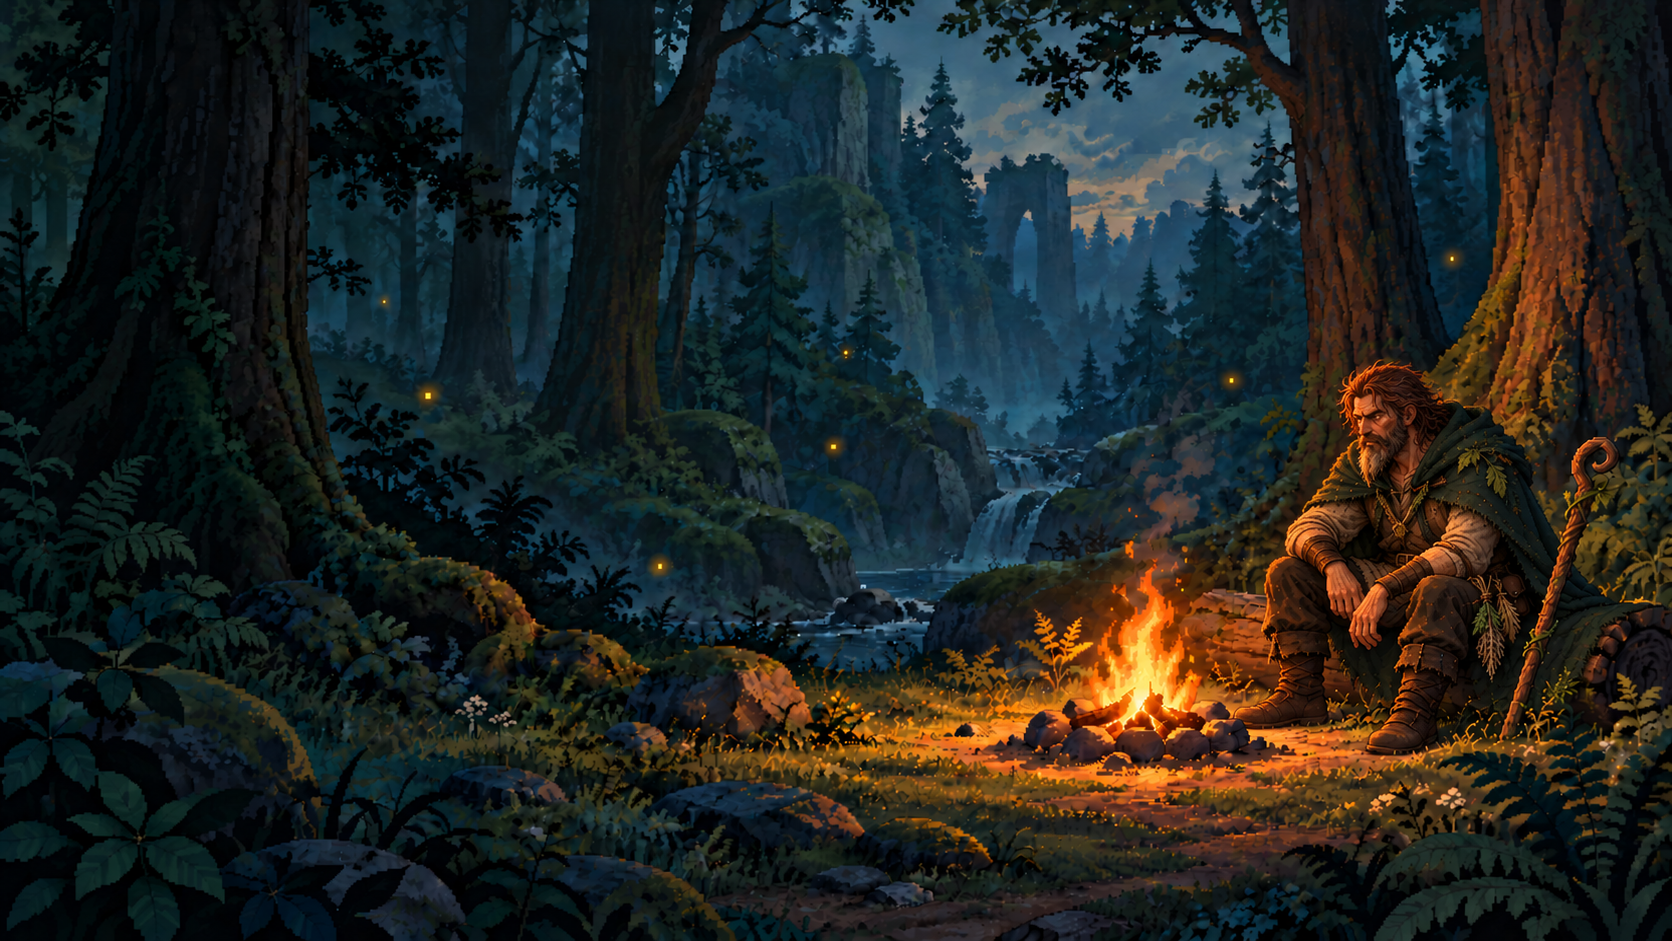
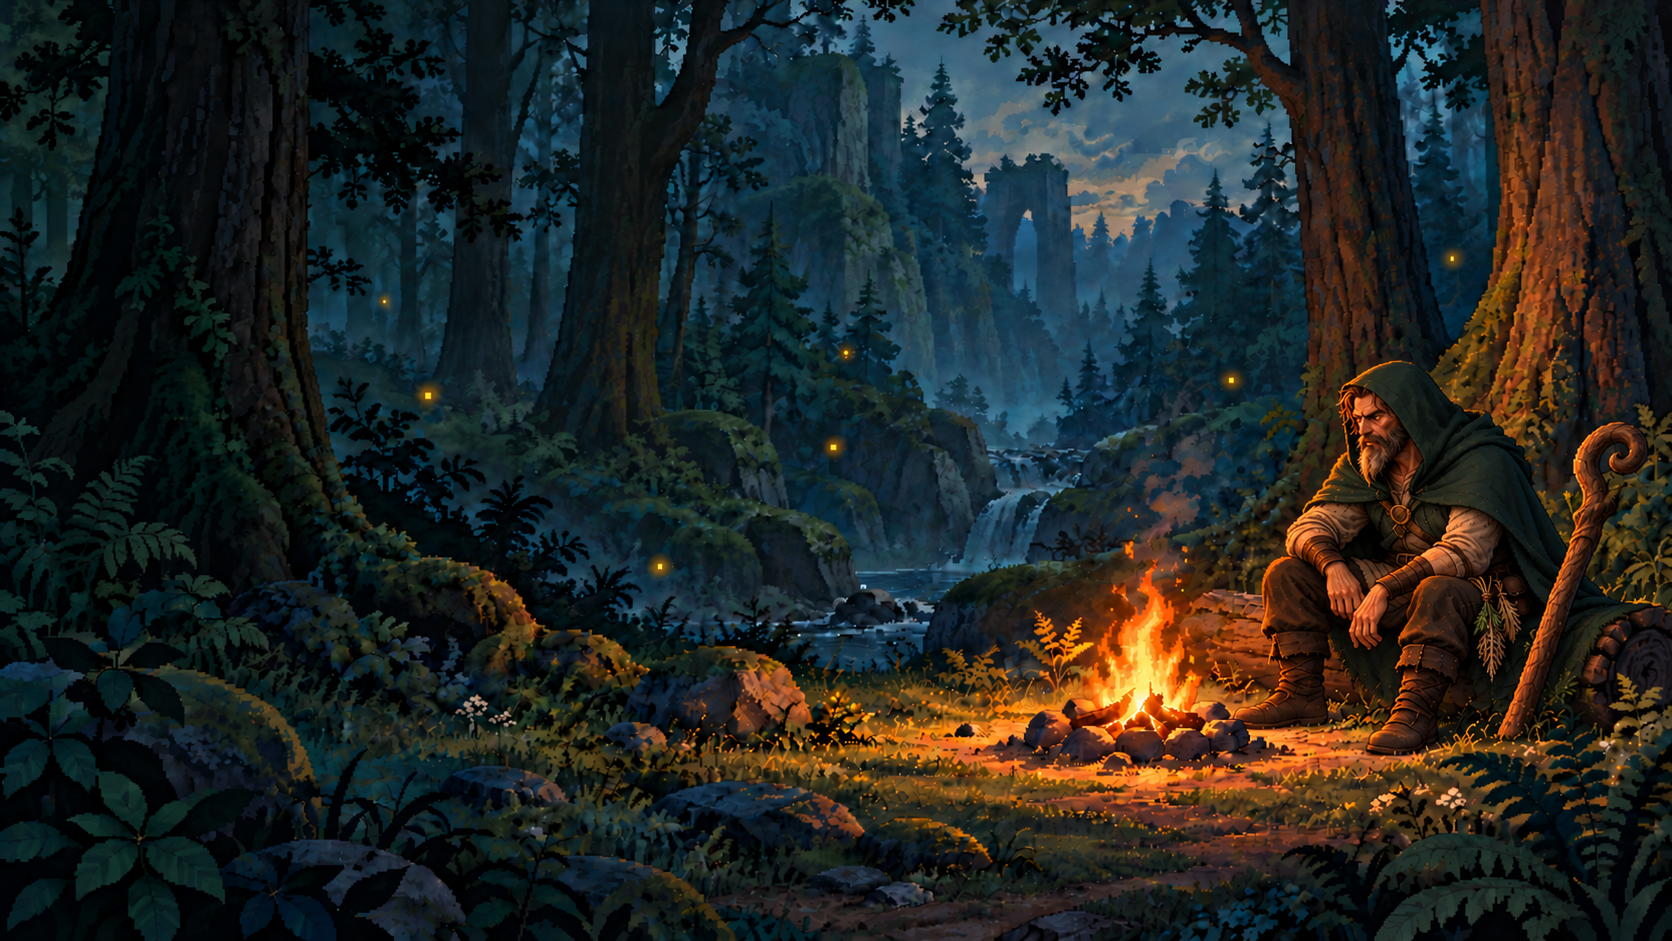
Restore druid hood, clean fabric and strengthen staff

diff --git a/docs/concepts/README.md b/docs/concepts/README.md
@@ -6,7 +6,7 @@
 
 ![Крепкий друид-мужчина 45+ в походной экипировке у костра](menu-forest-v2.png)
 
-Пользователю понравились общая композиция и визуальное направление первого изображения. Последний ориентир для героя — друид из Diablo II: суровые зрелые черты лица, жилистая мужская фигура и рыжеватые растрёпанные волосы. Борода неухоженная, но с более острой клиновидной формой. Сохранены тканевая туника, зелёный плащ, штаны, тяжёлые сапоги и связки трав на поясе. Наплечник в виде лапы исключён. Лес, костёр и место для меню сохранены как основа композиции.
+Пользователю понравились общая композиция и визуальное направление первого изображения. Последний ориентир для героя — друид из Diablo II: суровые зрелые черты лица, жилистая мужская фигура и рыжеватые волосы. Борода неухоженная, с одобренной острой клиновидной формой. Зелёный капюшон снова надет на голову. Плащ и штаны имеют более ровную ткань со складками, без точек, колючек и растительного покрытия. Деревянный посох сделан толще и массивнее. Сохранены тканевая туника, тяжёлые сапоги и связки трав на поясе. Наплечник в виде лапы исключён. Лес, костёр и место для меню сохранены как основа композиции.
 
 Показ генерации в чате у пользователя оказался недоступен. По его просьбе использовать другой способ передачи актуальное изображение сохранено здесь. Для следующих правок обновляем этот же файл и ссылку вместо добавления новых вариантов в папку. История изменений сохраняется в Git.
 
@@ -15,7 +15,8 @@
 - Друид обязательно мужчина 45+ с бородой и зрелыми чертами лица.
 - Борода неухоженная, образ более дикий, фигура и экипировка мужественные; меняем персонажа целиком, а не только лицо.
 - Визуальный ориентир — друид Diablo II, с сохранением нашего плаща и исключением наплечника в виде лапы. Форма бороды острая, клиновидная.
-- Герой должен читаться как друид: больше ткани, меньше кожаных ремней, травы и коренья на поясе. Растения на плаще расположены отдельными неравномерными акцентами; сам плащ выглядит тканевым.
+- Герой должен читаться как друид: больше ткани, меньше кожаных ремней, травы и коренья на поясе.
+- Капюшон надет на голову. Плащ и штаны — ровная ткань с читаемыми складками, без точек, колючек и растительного покрытия. Посох более массивный, с толстым деревянным стволом.
 - Будущие кнопки «Играть» и другие пункты меню располагаются слева от костра.
 - Образ героя остаётся магическим друидом без превращений в животных.
 
